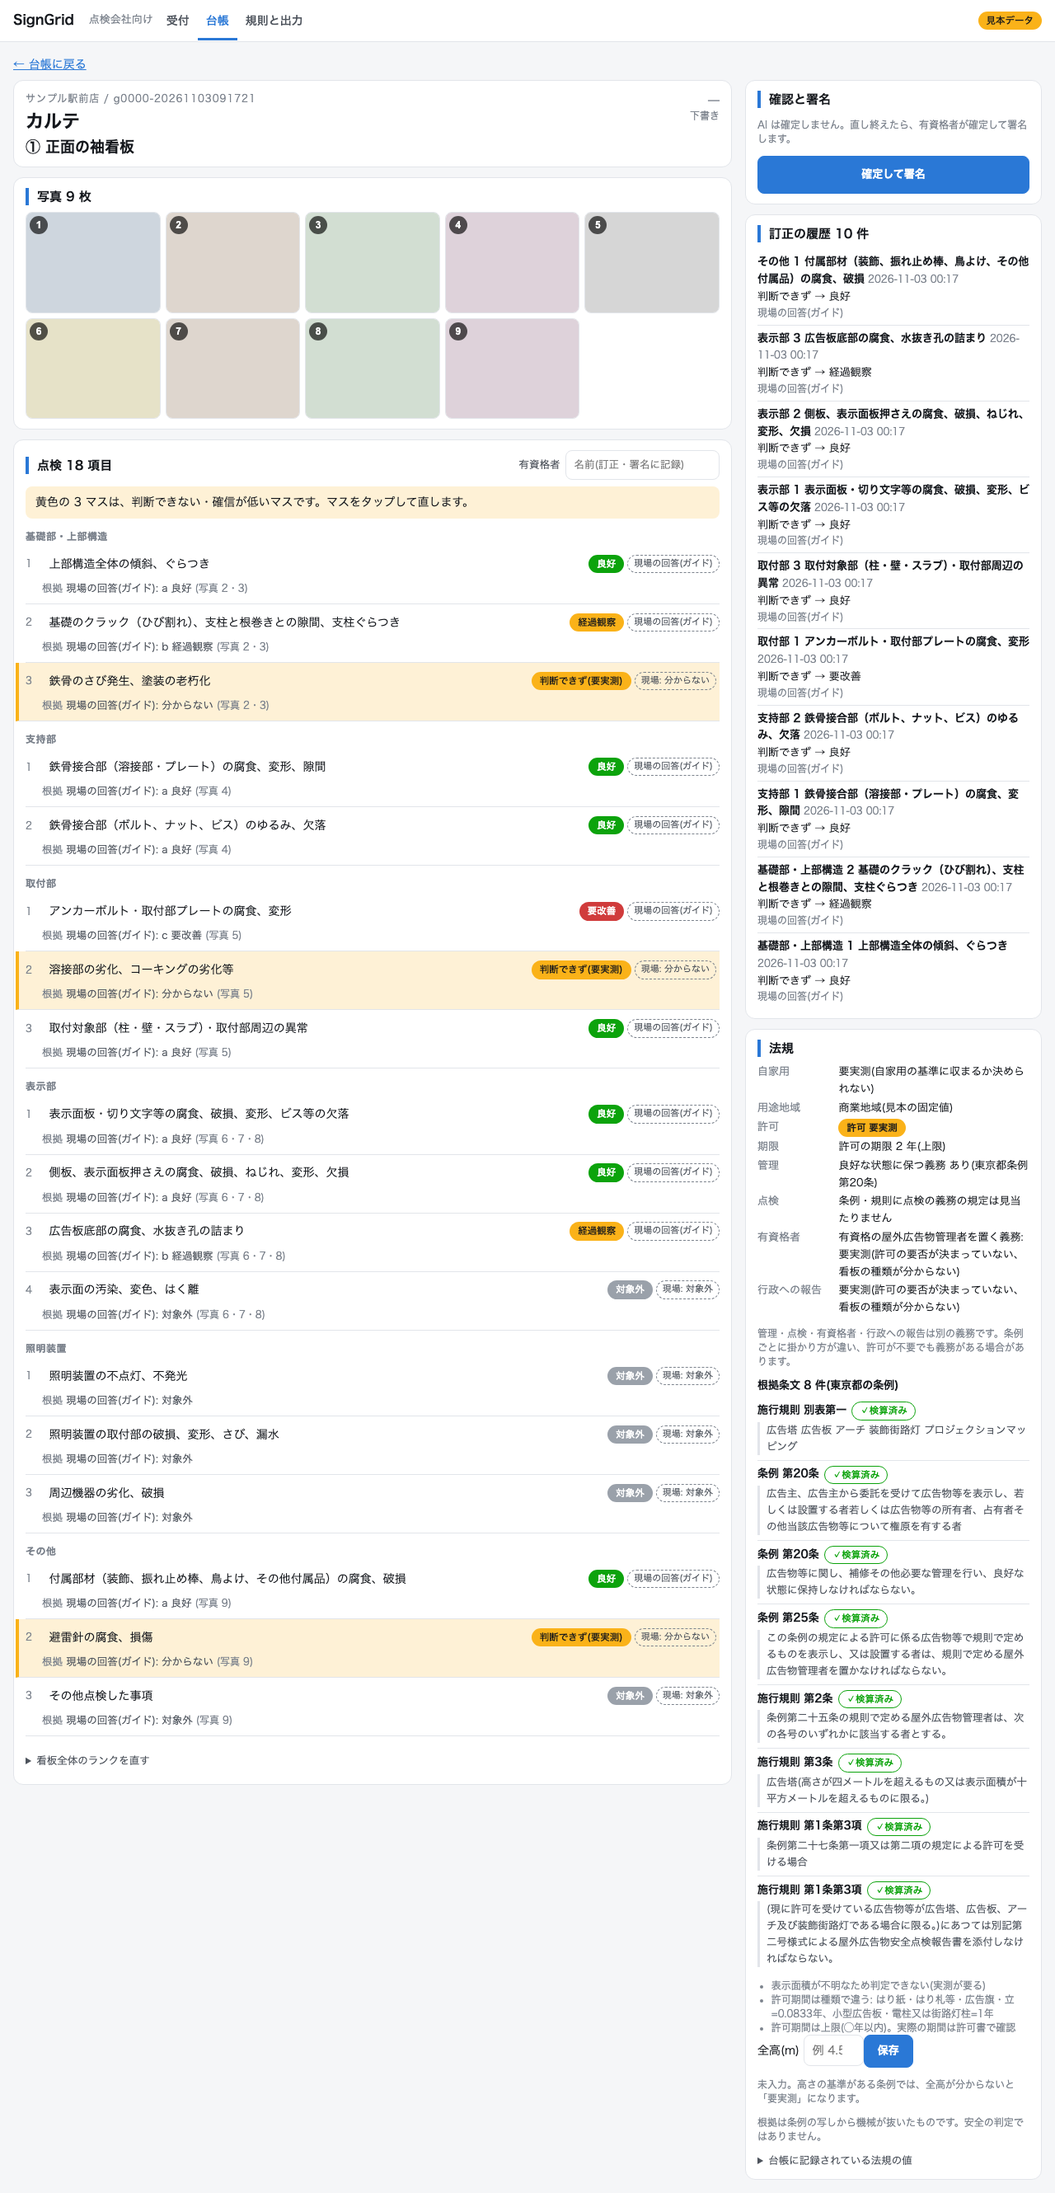
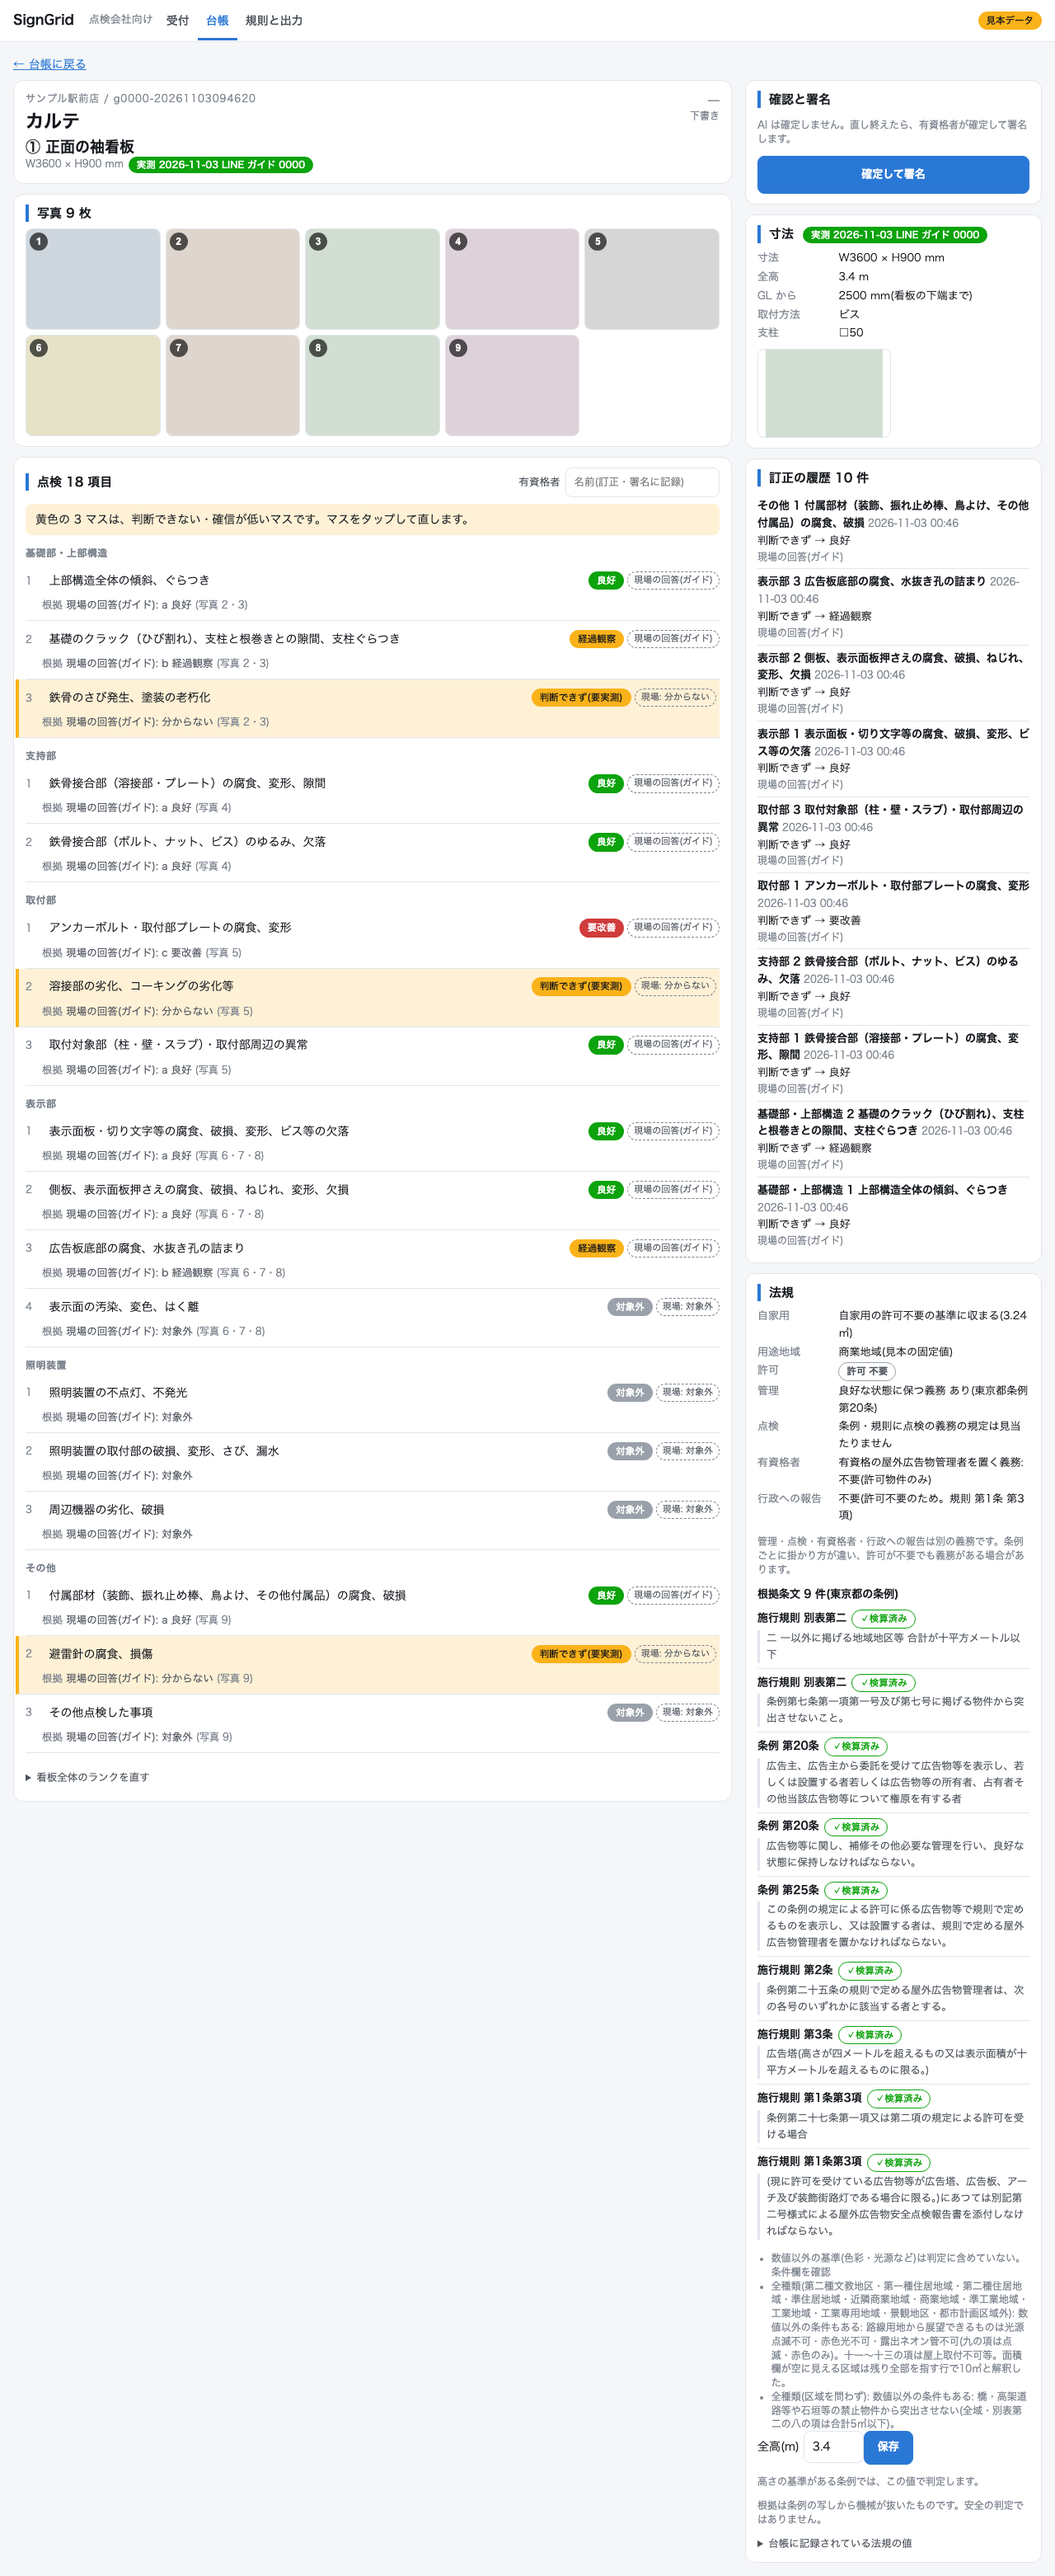
Simulate/docs: guide plan with measure branches (measure / skip / inherit), LINE.md conversation examples, guide-measure screenshots (PC/SP)

Changed region(s): [[0.0, 0.0, 0.6875, 0.8113], [0.7188, 0.0, 1.0, 0.9985]]

diff --git a/kanban_karte/intake/line/simulate.py b/kanban_karte/intake/line/simulate.py
@@ -95,10 +95,12 @@ def build_guide_deliveries(plan_file: str | Path, content_dir: str | Path, *,
     台本: {"job": "J-001", "signs": [{"name": "① 正面の袖看板", "overview": "photos/a.png",
            "parts": [{"photos": ["photos/b.png"], "answers": ["a", "b", "unknown"]}, ...6部位]}]}
     写真は台本のあるフォルダ基準。photos が空の部位は「この部位は無い」を押す(answers は書かない)。
+    看板の "measure" は寸法の実測(measure() の docstring。無ければ "skip")。
     Plan.stats に写真の枚数・押す回数・送る文の数。
     """
     from urllib.parse import urlencode
-    from .guide import MAX_PART_PHOTOS, PARTS
+    from . import measure as M
+    from .guide import MAX_MEASURE_PHOTOS, MAX_PART_PHOTOS, PARTS
 
     plan_file = Path(plan_file)
     doc = json.loads(plan_file.read_text(encoding="utf-8"))
@@ -132,13 +134,35 @@ def build_guide_deliveries(plan_file: str | Path, content_dir: str | Path, *,
         out.stats["photos"] += 1
         push(lambda tok, ts: _event(user_id, tok, {"type": "image", "id": mid, "contentProvider": {"type": "line"}}, ts))
 
+    def measure(spec):
+        """寸法の実測。"skip"=最初の問いで飛ばす / "inherit"=台帳に寸法がある看板(問いは出ない)/ dict=測る
+        {"w": "3.6m", "h": "900", "gl": "2500"(無ければ「分からない」), "mount": "ビス", "post": "□50"(無ければ「無し」), "photos": [巻尺の写真]}"""
+        if spec == "inherit":
+            return
+        if spec == "skip":
+            return tap(m="skip")
+        tap(m="go")
+        for k in ("w", "h", "gl"):
+            if spec.get(k) is None:
+                tap(m="glx")
+                continue
+            text(spec[k])
+            if M.parse_length(spec[k], lo=0, allow_zero=(k == "gl")).confirm:
+                tap(m="conf")  # 単位の無い数字は確認が返る
+        tap(mount=M.MOUNTS.index(spec.get("mount") or M.UNKNOWN))
+        text(spec["post"]) if spec.get("post") else tap(m="nopost")
+        for rel in spec.get("photos", [])[:MAX_MEASURE_PHOTOS]:
+            image(rel)
+        if len(spec.get("photos", [])) < MAX_MEASURE_PHOTOS:
+            tap(m="nopic")
+
     tap(start=1)
     if doc.get("job"):
         tap(site=doc["job"])
     for si, sg in enumerate(doc["signs"]):
         text(sg["name"])
         image(sg["overview"])
-        tap(m="skip")  # 寸法の実測の最初の問い(台帳に寸法が無い看板)。測る台本は次のコミットで足す
+        measure(sg.get("measure", "skip"))
         for pi, (part, items) in enumerate(PARTS):
             spec = sg["parts"][pi]
             photos = spec.get("photos", [])

diff --git a/tests/test_guide.py b/tests/test_guide.py
@@ -443,9 +443,14 @@ class SimulateTest(unittest.TestCase):
                 code, res = app.handle(body, sign(SECRET, body))
                 self.assertEqual((code, res.errors), (200, []))
             with Ledger(td / "l.sqlite") as lg:
-                s = lg.list_signs()[0]
+                signs = lg.list_signs()
+                s = signs[0]
                 self.assertEqual(s.name, "① 正面の袖看板")
-                self.assertEqual(len(s.photos), plan.stats["photos"])
+                self.assertEqual(len(s.photos), 10)  # 全景1+部位9+巻尺の写真1(末尾)
+                self.assertEqual((s.size_w, s.size_h, s.gl_mm, s.height_m, s.size_source), (3600, 900, 2500, 3.4, "measured"))
+                self.assertEqual([x.name for x in signs], ["① 正面の袖看板", "② 側面の看板", "① 正面の袖看板"])
+                self.assertIsNone(signs[1].size_w)  # ② は飛ばした
+                self.assertEqual((signs[2].size_w, signs[2].size_source), (3600, "measured"))  # ③ は①の実測を引き継いだ
                 self.assertEqual(len(s.items), 10)
                 self.assertEqual(sum(1 for v in s.evidence.values() if v["guide"] == "unknown"), 3)
                 self.assertEqual(sum(1 for v in s.evidence.values() if v["guide"] == "na"), 5)  # 表示部-4、照明装置3(この部位は無い)、その他-3
@@ -455,8 +460,8 @@ class SimulateTest(unittest.TestCase):
     def test_operation_counts(self):
         with tempfile.TemporaryDirectory() as td:
             plan = build_guide_deliveries(PLAN, Path(td) / "c", run_id="t2")
-            self.assertEqual(plan.stats["photos"], 9)
-            self.assertEqual(plan.stats["texts"], 1)
+            self.assertEqual(plan.stats["photos"], 12)  # ①全景+部位9+巻尺1、②全景、③全景
+            self.assertEqual(plan.stats["texts"], 7)    # 看板の名前3+①の幅・高さ・GL・支柱
 
 
 class KarteBadgeTest(GuideBase):

diff --git a/tools/web_screenshots.py b/tools/web_screenshots.py
@@ -227,20 +227,25 @@ def guide_karte(page, base, out, tag, db):
             assert code == 200 and not res.errors, res.errors if res else code
         with Ledger(db) as lg:
             sg = next(s for s in lg.list_signs() if (s.draft_by or "").startswith("line_guide"))
-            sg.photos = [f"photos/{Path(p).name}" for p in plan_photo_names(plan_file)]  # 受信箱は一時なので、見本の画像に差し替えて表示
+            # 受信箱は一時なので、見本の画像に差し替えて表示(pages も同じ画像に付け替え、タグ「実測」を保つ)
+            for old, name in zip(list(sg.photos), plan_photo_names(plan_file)):
+                new = f"photos/{Path(name).name}"
+                lg.conn.execute("UPDATE pages SET image_path=? WHERE image_path=?", (new, lg.rel_path(old)))
+                sg.photos[sg.photos.index(old)] = new
+            lg.conn.commit()
             lg.upsert_sign(sg)
     shoot(page, base, out, tag, f"/sign/{sg.id}", "guide-karte", wait="main .karte")
+    shoot(page, base, out, tag, f"/sign/{sg.id}", "guide-measure", wait="main .size-card")  # 寸法の枠(実測のバッジ)
 
 
 def plan_photo_names(plan_file):
     import json
     doc = json.loads(Path(plan_file).read_text(encoding="utf-8"))
-    names = []
-    for sg in doc["signs"]:
-        names.append(sg["overview"])
-        for p in sg["parts"]:
-            names += p.get("photos", [])
-    return names
+    sg = doc["signs"][0]  # 写真の並び(台帳の看板の写真と同じ): 全景、部位の写真、巻尺の写真(末尾)
+    names = [sg["overview"]]
+    for p in sg["parts"]:
+        names += p.get("photos", [])
+    return names + (sg.get("measure") or {}).get("photos", [])
 
 
 def workflow(page, base, out, tag, db):
